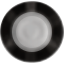
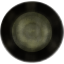
Adjusted waste particles, edited wheel texture, added texture scale

diff --git a/src/duck/DuckState.cpp b/src/duck/DuckState.cpp
@@ -104,8 +104,12 @@ namespace duck
 
         b2ParticleSystemDef wasteDef;
         wasteDef.radius = 0.2f;
-        wasteDef.density = 1.0f;
+        wasteDef.density = 0.5f;
         wasteDef.maxCount = 200;
+        wasteDef.destroyByAge = true;
+        wasteDef.dampingStrength = 0.05f;
+        wasteDef.viscousStrength = 1.5f;
+        wasteDef.ejectionStrength = 0.05f;
         m_waste = m_world->CreateParticleSystem(&wasteDef);
 
         m_ovenSensor.SetDuckState(this);
@@ -130,10 +134,18 @@ namespace duck
     void DuckState::CreateWorld()
     {
         const float wallSize = 1.25f;
-        // Convoyer belt
-        for (int i = 0; i < 60; i++)
+        // Conveyor belt
+        const float wheelR = 0.5f;
+//        for (int i = 0; i < 60 / int(wheelR * 2.0f); i++)
+        for (int i = 0; i < 30 / int(wheelR * 2.0f); i++)
         {
-            CreateWheel(vec2f(-30.0f + 0.25f + float(i) * 0.5f, PLAY_AREA_BOTTOM));
+//            CreateWheel(vec2f(-30.0f + 0.25f + float(i) * 0.5f, PLAY_AREA_BOTTOM), 0.25f, 15.0f;);
+//            CreateWheel(vec2f(-30.0f + float(i) * wheelR * 2.0f, PLAY_AREA_BOTTOM), wheelR, 15.0f;);
+            CreateWheel(vec2f(-30.0f + float(i) * wheelR * 2.0f, PLAY_AREA_BOTTOM), wheelR, 5.0f);
+        }
+        for (int i = 0; i < 30 / int(wheelR * 2.0f); i++)
+        {
+            CreateWheel(vec2f(-30.0f + wheelR + float(i) * wheelR * 2.0f, PLAY_AREA_BOTTOM), wheelR, 5.0f);
         }
         // Floor
         CreateStaticBox(vec2f(-16.0f, PLAY_AREA_BOTTOM - 4.0f), 0.0f, 16.0f, 4.0f);
@@ -180,7 +192,7 @@ namespace duck
         return object;
     }
 
-    GameObject* DuckState::CreateWheel(const vec2f &position)
+    GameObject* DuckState::CreateWheel(const vec2f &position, const float radius, const float speed)
     {
         GameObject *wheel = CreateObject();
 
@@ -192,9 +204,10 @@ namespace duck
 //        wheel->SetColor(Color(0.2f, 0.2f, 0.2f));
         TextureHandle texture = GetCache().GetTexture("wheel.tex");
         wheel->SetTexture(texture);
+        wheel->SetTextureScale(1.3f);
 
         b2CircleShape shape;
-        shape.m_radius = 0.25f;
+        shape.m_radius = radius;
         b2Fixture *fix = body->CreateFixture(&shape, 200.0f);
         b2Filter filter;
         filter.categoryBits = WheelBits;
@@ -206,7 +219,7 @@ namespace duck
         b2RevoluteJointDef revDef;
         revDef.Initialize(body, m_worldBody, body->GetWorldCenter());
         revDef.enableMotor = true;
-        revDef.motorSpeed = 15.0f;
+        revDef.motorSpeed = speed;
         revDef.maxMotorTorque = 1000.0f;
         m_world->CreateJoint(&revDef);
 
@@ -677,7 +690,7 @@ namespace duck
         groupDef.shape = &shape;
         groupDef.color.Set(32, 25, 16, 255);
         groupDef.position.Set(0.0f, 2.0f);
-        groupDef.flags = b2_viscousParticle | b2_fixtureContactListenerParticle;
+        groupDef.flags = b2_viscousParticle; // | b2_powderParticle | b2_fixtureContactListenerParticle;
         groupDef.lifetime = 100.0f;
         m_waste->CreateParticleGroup(groupDef);
 
@@ -831,9 +844,9 @@ namespace duck
         renderer.SetModel(mat4f::Identity);
 
 //        renderer.SetColor(Color(0.18f, 0.14f, 0.14f));
-        renderer.SetColor(Color(60 / 255.0f, 71 / 255.0f, 49 / 255.0f));
-        renderer.BindColorShader();
-        renderer.DrawFilledRectangle(PLAY_AREA_LEFT, PLAY_AREA_BOTTOM, PLAY_AREA_RIGHT, PLAY_AREA_TOP);
+//        renderer.SetColor(Color(60 / 255.0f, 71 / 255.0f, 49 / 255.0f));
+//        renderer.BindColorShader();
+//        renderer.DrawFilledRectangle(PLAY_AREA_LEFT, PLAY_AREA_BOTTOM, PLAY_AREA_RIGHT, PLAY_AREA_TOP);
 
         renderer.SetModel(mat4f::Identity);
         renderer.GetGraphics()->BindTexture(0, GetCache().GetTexture("bg.tex"));

diff --git a/src/duck/GameObject.cpp b/src/duck/GameObject.cpp
@@ -17,6 +17,7 @@ namespace duck
         , m_flameTexture(InvalidHandle)
         , m_flameGlowTexture(InvalidHandle)
         , m_bubbleTexture(InvalidHandle)
+        , m_textureScale(1.0f)
         , m_renderLayer(0)
         , m_burnTimer(0.0f)
         , m_oilyness(0.0f)
@@ -101,7 +102,7 @@ namespace duck
 
     void GameObject::Render(Renderer *renderer)
     {
-        const vec2f dim = GetDimensions();
+        vec2f dim = GetDimensions();
 
 //        renderer->SetColor(rob::Color::White);
         renderer->SetColor(m_color);
@@ -131,6 +132,7 @@ namespace duck
         }
         else
         {
+            dim *= m_textureScale;
             renderer->GetGraphics()->SetUniform(renderer->GetGlobals().texture0, 1);
             renderer->GetGraphics()->BindTexture(1, m_texture);
             renderer->BindTextureShader();

diff --git a/src/duck/GameObject.h b/src/duck/GameObject.h
@@ -53,6 +53,9 @@ namespace duck
         void SetBubbleTexture(rob::TextureHandle texture)
         { m_bubbleTexture = texture; }
 
+        void SetTextureScale(float scale)
+        { m_textureScale = scale; }
+
         void SetLayer(int layer);
         int GetLayer() const;
 
@@ -108,6 +111,7 @@ namespace duck
         rob::TextureHandle m_flameTexture;
         rob::TextureHandle m_flameGlowTexture;
         rob::TextureHandle m_bubbleTexture;
+        float m_textureScale;
         int m_renderLayer;
 
         float m_burnTimer;

diff --git a/src/duck/DuckState.h b/src/duck/DuckState.h
@@ -32,7 +32,7 @@ namespace duck
 
         GameObject* CreateObject(GameObject *prevLink = nullptr);
         GameObject* CreateStaticBox(const vec2f &position, float angle, float w, float h);
-        GameObject* CreateWheel(const vec2f &position);
+        GameObject* CreateWheel(const vec2f &position, const float radius, const float speed);
         GameObject* CreateWaterContainer(const vec2f &position, float w, float h);
         GameObject* CreateBird(const vec2f &position);
         void CreateOven();

diff --git a/src/duck/Game.cpp b/src/duck/Game.cpp
@@ -173,7 +173,11 @@ namespace duck
 
         void OnKeyPress(Keyboard::Key key, Keyboard::Scancode scancode, uint32_t mods) override
         {
-            if (key == Keyboard::Key::Return)
+            if (key == Keyboard::Key::Space && !InsertingNewScore())
+            {
+                ChangeState(STATE_MainMenu);
+            }
+            else if (key == Keyboard::Key::Return)
             {
                 if (InsertingNewScore())
                 {
